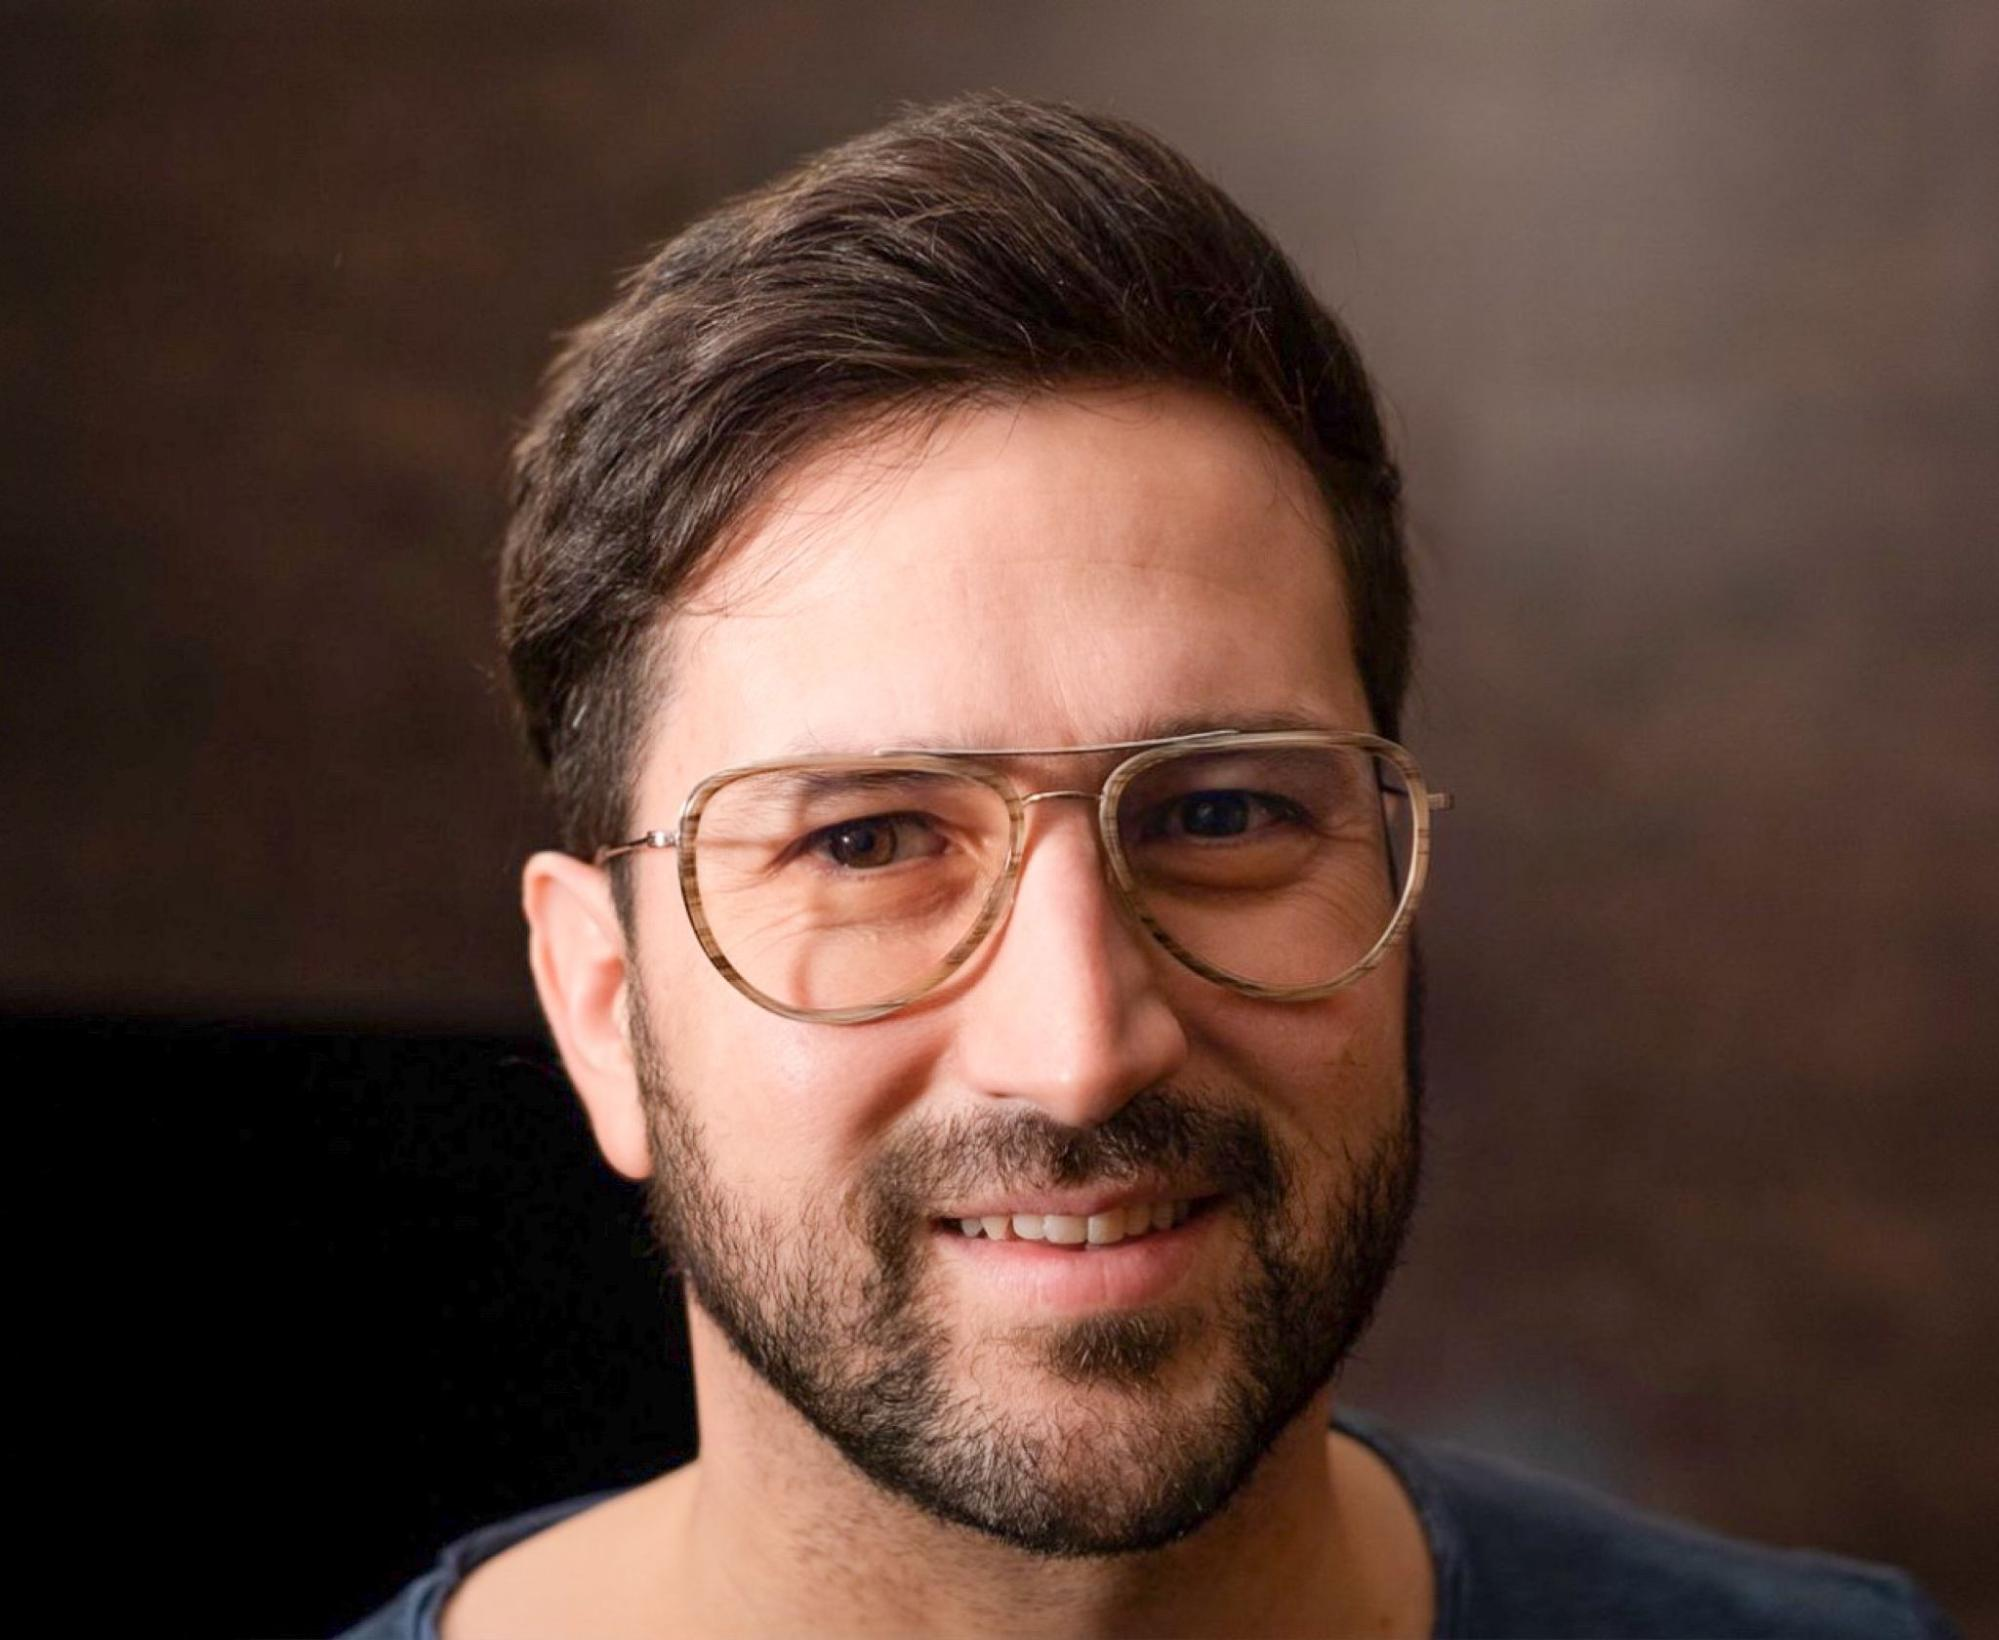
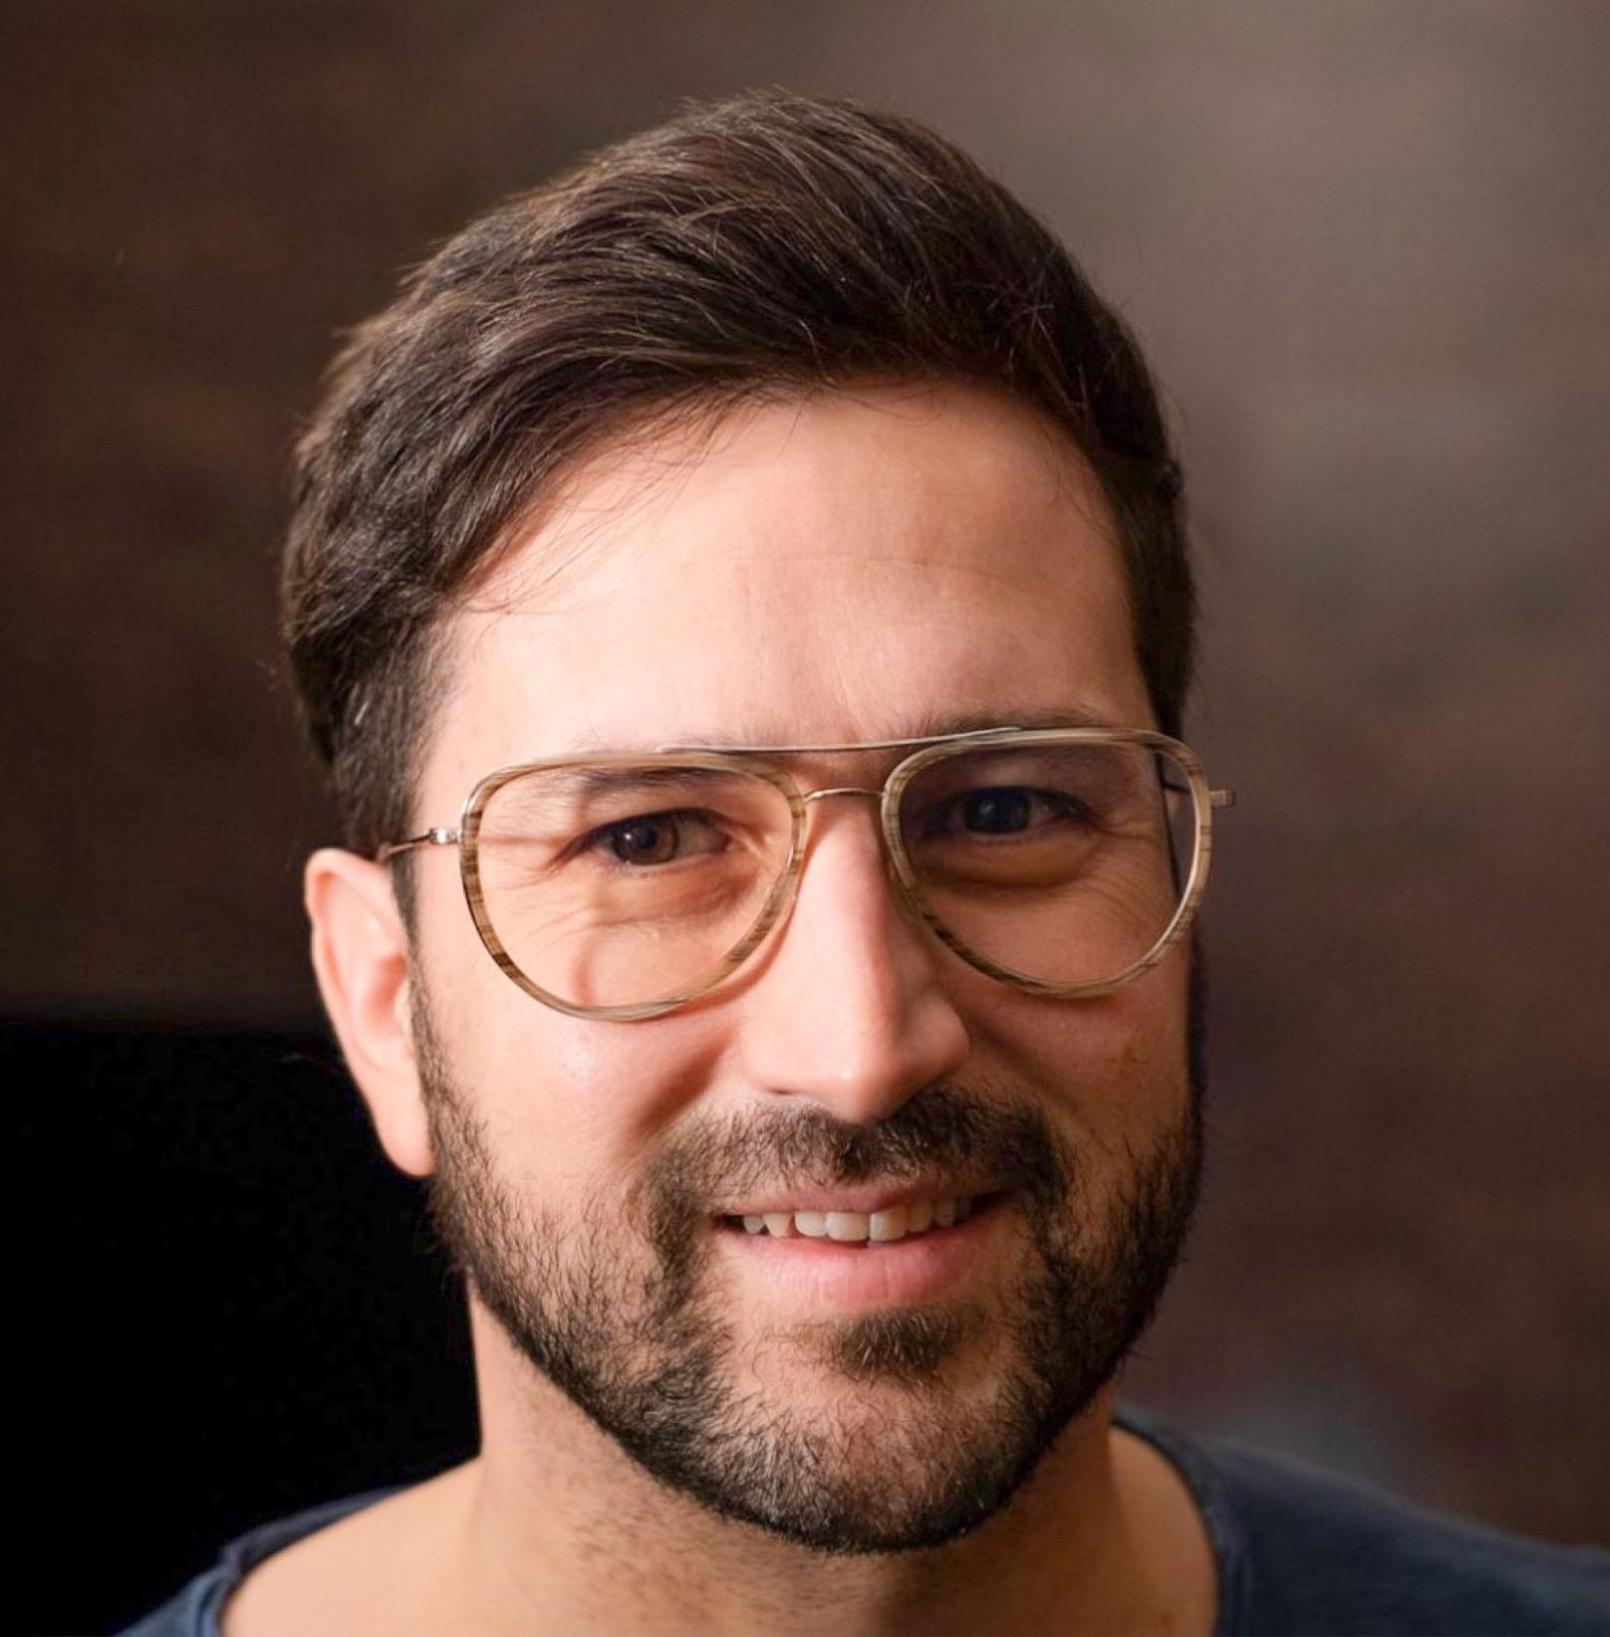
fix(team-en): apply misc changes detailed in word doc

Changed region(s): [[0.0621, 0.0623, 0.7764, 1.0], [0.8075, 0.8723, 1.0, 1.0]]

diff --git a/resources/content/pages/team/team-en.md b/resources/content/pages/team/team-en.md
@@ -50,11 +50,11 @@ content:
     - member: Gabriela Ponce
       twitter:
       linkedin: gnpf
-      github: gnpf
+      github: gabriela-ponce 
       iohkProfile: gabriela-ponce
       location: Argentina
       jobTitle: Software Test Engineer
-      imagePath: /images/uploads/gabriela-ponce.png
+      imagePath: /images/uploads/gabriela-ponce.jpg
       description:
         Gabriela Ponce has worked as a software tester and quality assurance
         engineer on various projects since 2014. She is constantly looking for
@@ -127,20 +127,6 @@ content:
         prefers non-standard testing approaches to obtain a maximum quality
         level. In his spare time, Dmitrii enjoys video games and reading crypto
         news.
-    - member: Michael Chappell
-      twitter:
-      linkedin:
-      github:
-      iohkProfile:
-      location: United Kingdom
-      jobTitle: Software Engineer
-      imagePath: /images/uploads/machael.jpg
-      description:
-        Michael is an experienced full-stack JavaScript developer. He has spent
-        the last few years working as a full-stack senior developer working with
-        AWS cloud infrastructure, and either react, or react-native in
-        TypeScript for frontends, paired with appropriate unit/integration/e2e
-        testing.
     - member: Lucas Araujo
       twitter:
       linkedin:
@@ -184,7 +170,7 @@ content:
       linkedin:
       github:
       iohkProfile:
-      location: United Kingdom
+      location: South Africa
       jobTitle: Project Manager
       imagePath: /images/uploads/marius-bock.jpg
       description:
@@ -201,7 +187,7 @@ content:
       linkedin:
       github:
       iohkProfile:
-      location: United Kingdom
+      location: Poland
       jobTitle: Senior Full Stack Developer
       imagePath: /images/uploads/przemysław-włodek.jpg
       description:
@@ -212,28 +198,12 @@ content:
         before it became a mainstream practice. Przemysław is still primarily focused on web technologies 
         and especially JavaScript (TypeScript) but is able to solve problems with different tools, 
         programming languages, and patterns. He is always trying to keep a positive vibe within the team.
-    - member: Amit Sagar
-      twitter:
-      linkedin:
-      github:
-      iohkProfile:
-      location: United Kingdom
-      jobTitle: Front End Developer
-      imagePath: /images/uploads/amit-sagar.jpg
-      description:
-        Amit Sagar started his development career with a degree in Information Technology from the 
-        National Institute of Science and Technology (NIST), Berhampur. Hailing from India, he has 
-        worked on various domains, including Fintech and E-commerce, and loves to explore new 
-        technologies that solve real-time challenges. He is a blockchain enthusiast and well versed 
-        in web tech stacks. He loves to mentor teams at startups and help them achieve their best. 
-        His passion is to continue increasing his understanding of the blockchain world and 
-        contribute to its development.
     - member: Marcin Mazurek
       twitter:
       linkedin:
       github:
       iohkProfile:
-      location: United Kingdom
+      location: Poland
       jobTitle: Senior Full Stack Developer
       imagePath: /images/uploads/marcin-mazurek.jpg
       description:
@@ -246,7 +216,7 @@ content:
       linkedin:
       github:
       iohkProfile:
-      location: United Kingdom
+      location: Poland
       jobTitle: Software Engineer
       imagePath: /images/uploads/szymon-masłowski.png
       description:
@@ -254,4 +224,19 @@ content:
         He loves building frontends as much as backends and constantly evolves his skills and knowledge 
         of Web development. Szymon is from Poland where he studied Information Technology at Cracow University 
         of Technology. In his spare time he enjoys watching movies and drinking whiskey.
+    - member: Michal Rus
+      twitter:
+      linkedin:
+      github: michalrus
+      iohkProfile: michal-rus
+      location: Poland
+      jobTitle: Software Engineer
+      imagePath: /images/uploads/michal-rus.jpeg
+      description:
+        Michal has a master's degree in computer science from the AGH University of Science and Technology 
+        in Kraków. Having started coding at 12, his previous commercial experience includes working with Haskell, 
+        Scala, and Nix. Interested in music theory, he likes playing the piano, toying with mycology, plants, 
+        DIY, taking long walks, psychology, and cooking in his free time.
+
+        
 ---
